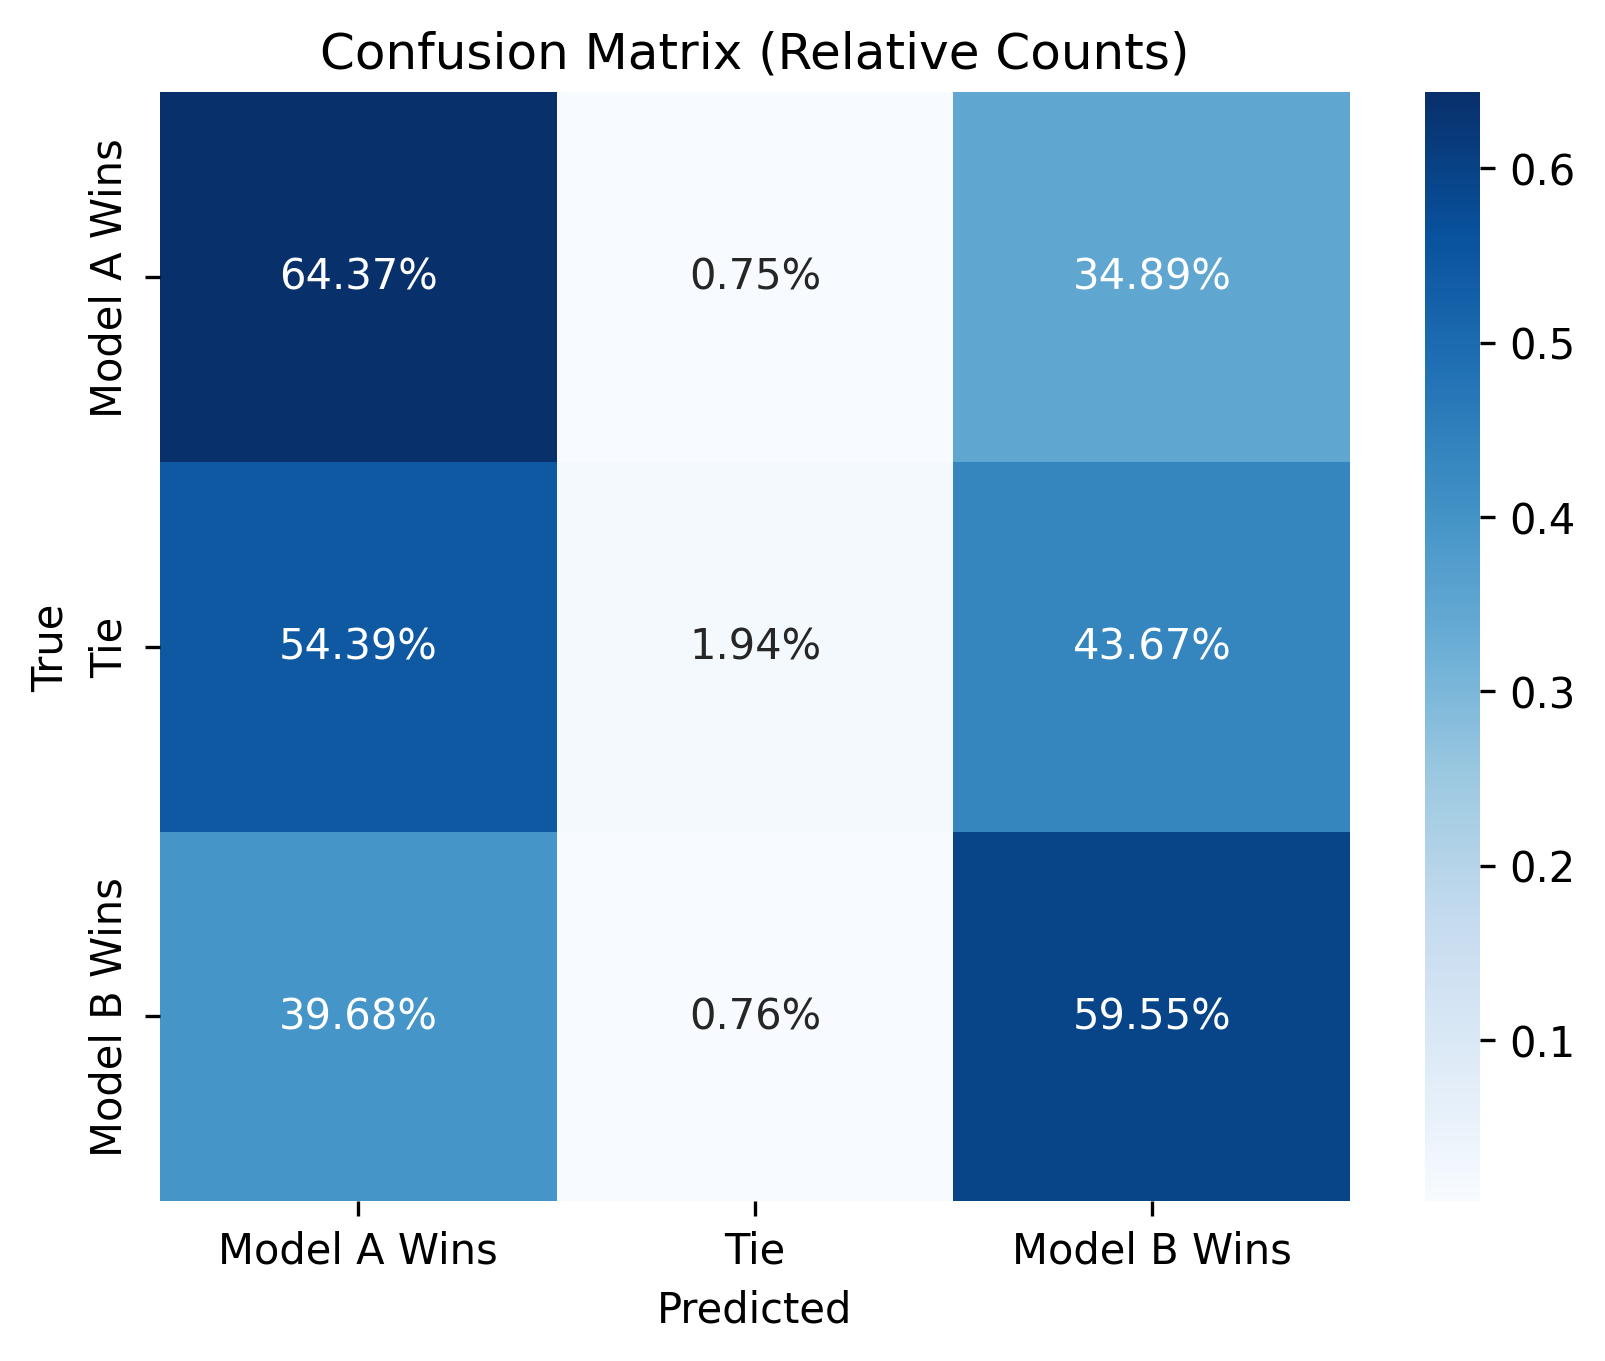
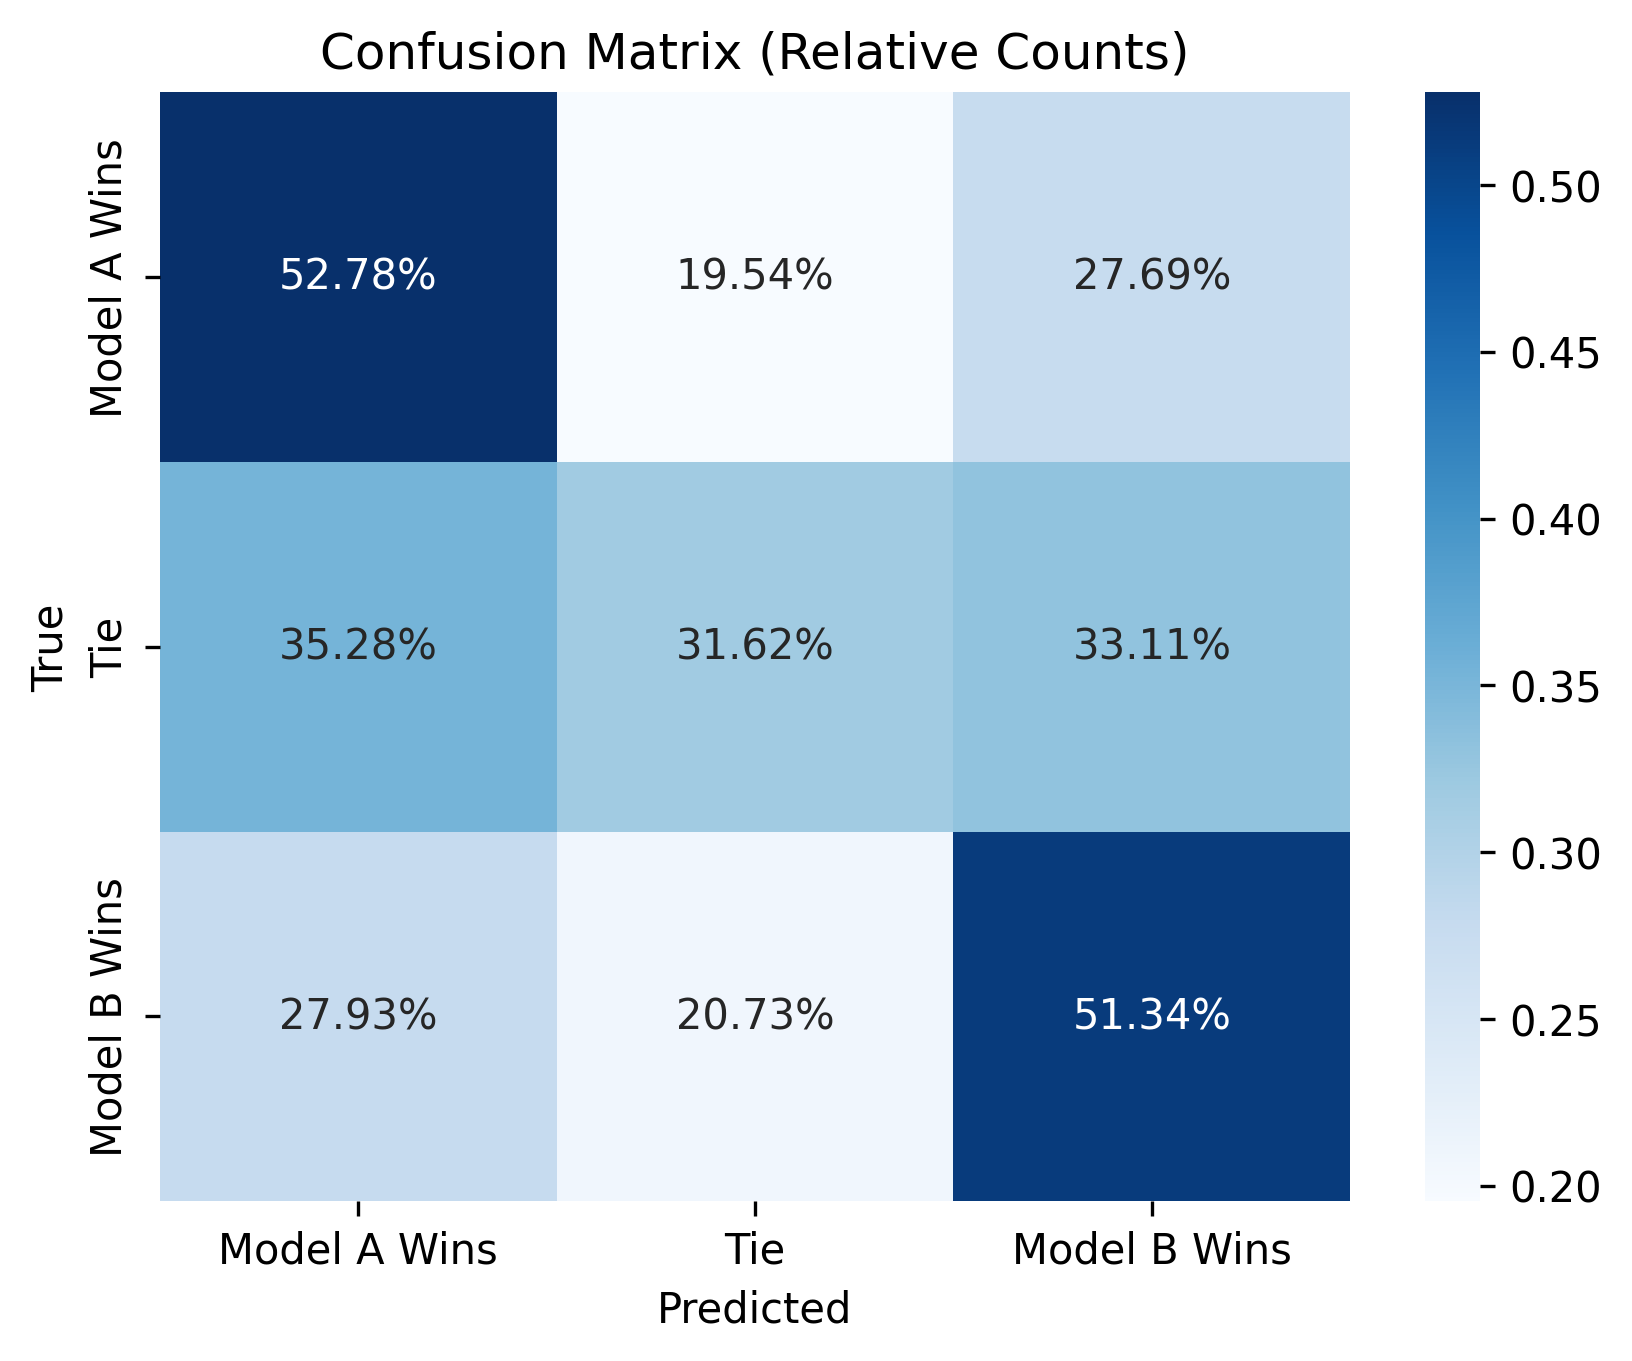
added more basic textual features

diff --git a/main.py b/main.py
@@ -1,15 +1,13 @@
 import pandas as pd
 import zipfile
+import re
 from sklearn.model_selection import train_test_split
 from sklearn.linear_model import LogisticRegression
 from sklearn.metrics import log_loss, confusion_matrix
 import numpy as np
 import seaborn as sns
 import matplotlib.pyplot as plt
-
-## TODO:
-# add a ton of features
-# unbias dataset
+from sklearn.preprocessing import StandardScaler
 
 def load_data(zip_file_path):
     try:
@@ -26,19 +24,149 @@ def load_data(zip_file_path):
         train_df = pd.read_csv('/kaggle/input/lmsys-chatbot-arena/train.csv')
         test_df = pd.read_csv('/kaggle/input/lmsys-chatbot-arena/test.csv')
         print("Data loaded from /input folder.")
-
     return train_df, test_df
 
 
+def count_syllables(word):
+    word = word.lower()
+    word = re.sub(r'[^a-z]', '', word)  # Remove non-alphabetic characters
+    vowels = "aeiouy"
+    syllable_count = 0
+    prev_char_was_vowel = False
+    if len(word) == 0:
+        return 0
+    for idx, char in enumerate(word):
+        if char in vowels:
+            if not prev_char_was_vowel:
+                syllable_count += 1
+                prev_char_was_vowel = True
+        else:
+            prev_char_was_vowel = False
+    if word.endswith("e") and not word.endswith("le") and syllable_count > 1:
+        syllable_count -= 1
+    return syllable_count
+
+
+def calculate_readability(row, col_prefix):
+    words = row[f'{col_prefix}_word_list']
+    sentences = max(row[f'{col_prefix}_sentence_count'], 1)
+    syllables = row[f'{col_prefix}_syllable_count']
+    words_count = max(len(words), 1)
+
+    # Flesch Reading Ease
+    fre = 206.835 - 1.015 * (words_count / sentences) - 84.6 * (syllables / words_count)
+
+    # Flesch-Kincaid Grade Level
+    fkgl = 0.39 * (words_count / sentences) + 11.8 * (syllables / words_count) - 15.59
+
+    return pd.Series({f'{col_prefix}_flesch_reading_ease': fre, f'{col_prefix}_flesch_kincaid_grade': fkgl})
+
+
 def add_basic_features(df):
-    df['response_a_length'] = df['response_a'].apply(len)
-    df['response_b_length'] = df['response_b'].apply(len)
-    df['length_difference'] = df['response_a_length'] - df['response_b_length']
+    for col in ['prompt', 'response_a', 'response_b']:
+        # Character Count
+        df[f'{col}_char_count'] = df[col].str.len()
+
+        # Word List and Word Count
+        df[f'{col}_word_list'] = df[col].str.findall(r'\b\w+\b')
+        df[f'{col}_word_count'] = df[f'{col}_word_list'].str.len()
+
+        # Sentence Count
+        df[f'{col}_sentence_count'] = df[col].str.count(r'[.!?]+')
+        df[f'{col}_sentence_count'] = df[f'{col}_sentence_count'].replace(0, 1)  # Avoid division by zero
+
+        # Average Word Length
+        df[f'{col}_avg_word_length'] = df[f'{col}_char_count'] / df[f'{col}_word_count'].replace(0, np.nan)
+
+        # Average Sentence Length (in words)
+        df[f'{col}_avg_sentence_length'] = df[f'{col}_word_count'] / df[f'{col}_sentence_count']
+
+        # Punctuation Counts
+        df[f'{col}_exclamation_count'] = df[col].str.count('!')
+        df[f'{col}_question_count'] = df[col].str.count(r'\?')  # Use raw string
+        df[f'{col}_comma_count'] = df[col].str.count(',')
+        df[f'{col}_period_count'] = df[col].str.count(r'\.')   # Use raw string
+        df[f'{col}_semicolon_count'] = df[col].str.count(';')
+        df[f'{col}_colon_count'] = df[col].str.count(':')
+
+        # Personal Pronoun Counts
+        df[f'{col}_pronoun_I_count'] = df[col].str.count(r'\bI\b', flags=re.IGNORECASE)
+        df[f'{col}_pronoun_you_count'] = df[col].str.count(r'\byou\b', flags=re.IGNORECASE)
+        df[f'{col}_pronoun_we_count'] = df[col].str.count(r'\bwe\b', flags=re.IGNORECASE)
+
+        # Type-Token Ratio
+        df[f'{col}_type_token_ratio'] = df[f'{col}_word_list'].apply(lambda x: len(set(x)) / max(len(x), 1))
+
+        # Syllable Count
+        df[f'{col}_syllable_count'] = df[f'{col}_word_list'].apply(lambda words: sum(count_syllables(word) for word in words))
+
+        # Readability Scores
+        #readability_scores = df.apply(lambda row: calculate_readability(row, col), axis=1).reset_index(drop=True)
+        #df = pd.concat([df.reset_index(drop=True), readability_scores], axis=1)
+
+    # Ensure readability columns are present and check for missing columns
+    #for col in ['response_a_flesch_reading_ease', 'response_b_flesch_reading_ease',
+    #            'response_a_flesch_kincaid_grade', 'response_b_flesch_kincaid_grade']:
+    #    if col not in df.columns:
+    #        print(f"Warning: Column {col} not found in the DataFrame! Filling with NaN.")
+    #        df[col] = np.nan
+
+    # Replace inplace fillna with assignment to prevent SettingWithCopyWarning
+    #df['response_a_flesch_reading_ease'] = df['response_a_flesch_reading_ease'].fillna(np.nan)
+    #df['response_b_flesch_reading_ease'] = df['response_b_flesch_reading_ease'].fillna(np.nan)
+    #df['response_a_flesch_kincaid_grade'] = df['response_a_flesch_kincaid_grade'].fillna(np.nan)
+    #df['response_b_flesch_kincaid_grade'] = df['response_b_flesch_kincaid_grade'].fillna(np.nan)
+
+    # Check for consistent lengths before calculating differences
+    #if len(df['response_a_flesch_reading_ease']) == len(df['response_b_flesch_reading_ease']):
+    #    df['flesch_reading_ease_difference'] = df['response_a_flesch_reading_ease'] - df['response_b_flesch_reading_ease']
+    #else:
+    #    print("Error: Readability columns have different lengths!")
+
+    #if len(df['response_a_flesch_kincaid_grade']) == len(df['response_b_flesch_kincaid_grade']):
+    #    df['flesch_kincaid_grade_difference'] = df['response_a_flesch_kincaid_grade'] - df['response_b_flesch_kincaid_grade']
+    #else:
+    #    print("Error: Readability grade columns have different lengths!")
+
+    # Differences between responses (Model A - Model B)
+    df['char_count_difference'] = df['response_a_char_count'] - df['response_b_char_count']
+    df['word_count_difference'] = df['response_a_word_count'] - df['response_b_word_count']
+    df['sentence_count_difference'] = df['response_a_sentence_count'] - df['response_b_sentence_count']
+    df['avg_word_length_difference'] = df['response_a_avg_word_length'] - df['response_b_avg_word_length']
+    df['avg_sentence_length_difference'] = df['response_a_avg_sentence_length'] - df['response_b_avg_sentence_length']
+    df['exclamation_count_difference'] = df['response_a_exclamation_count'] - df['response_b_exclamation_count']
+    df['question_count_difference'] = df['response_a_question_count'] - df['response_b_question_count']
+    df['pronoun_I_count_difference'] = df['response_a_pronoun_I_count'] - df['response_b_pronoun_I_count']
+    df['pronoun_you_count_difference'] = df['response_a_pronoun_you_count'] - df['response_b_pronoun_you_count']
+    df['type_token_ratio_difference'] = df['response_a_type_token_ratio'] - df['response_b_type_token_ratio']
+    df['syllable_count_difference'] = df['response_a_syllable_count'] - df['response_b_syllable_count']
+
+    # Ratios involving prompt and responses
+    df['response_a_char_count_to_prompt_char_count_ratio'] = df['response_a_char_count'] / df['prompt_char_count'].replace(0, np.nan)
+    df['response_b_char_count_to_prompt_char_count_ratio'] = df['response_b_char_count'] / df['prompt_char_count'].replace(0, np.nan)
+
+    # Ratios between responses (Model A to Model B)
+    df['response_a_char_count_to_response_b_char_count_ratio'] = df['response_a_char_count'] / df['response_b_char_count'].replace(0, np.nan)
+    df['response_a_word_count_to_response_b_word_count_ratio'] = df['response_a_word_count'] / df['response_b_word_count'].replace(0, np.nan)
+    df['response_a_sentence_count_to_response_b_sentence_count_ratio'] = df['response_a_sentence_count'] / df['response_b_sentence_count'].replace(0, np.nan)
+
+    # Clean up temporary columns
+    df.drop(columns=[col for col in df.columns if '_word_list' in col], inplace=True)
+
     return df
 
 
 def prepare_data(train_df):
-    features = ['response_a_length', 'response_b_length', 'length_difference']
+    # Select features
+    feature_cols = [col for col in train_df.columns if any(keyword in col for keyword in [
+        '_char_count', '_word_count', '_sentence_count',
+        '_avg_word_length', '_avg_sentence_length',
+        '_exclamation_count', '_question_count', '_comma_count', '_period_count',
+        '_semicolon_count', '_colon_count', '_pronoun_I_count', '_pronoun_you_count',
+        '_pronoun_we_count', '_type_token_ratio', '_syllable_count',
+        '_flesch_reading_ease', '_flesch_kincaid_grade',
+        '_difference', '_ratio'
+    ])]
 
     # Multi-class target: 0 = Model A wins, 1 = Model B wins, 2 = Tie
     def get_target(row):
@@ -51,23 +179,31 @@ def prepare_data(train_df):
 
     train_df['target'] = train_df.apply(get_target, axis=1)
 
-    X = train_df[features]
+    X = train_df[feature_cols]
     y = train_df['target']
 
-    X_train, X_val, y_train, y_val = train_test_split(X, y, test_size=0.2, random_state=42, stratify=y)
+    # Handle any NaN values
+    X = X.fillna(0)
 
-    return X_train, X_val, y_train, y_val
+    # Scale the features
+    scaler = StandardScaler()
+    X_scaled = scaler.fit_transform(X)
+
+    X_train, X_val, y_train, y_val = train_test_split(
+        X_scaled, y, test_size=0.2, random_state=42, stratify=y)
+
+    return X_train, X_val, y_train, y_val, scaler
 
 
 def train_model(X_train, y_train):
-    # Use LogisticRegression with multi-class support (using softmax under the hood)
-    model = LogisticRegression(solver='lbfgs', max_iter=1000)
+    # Use LogisticRegression with multi-class support
+    model = LogisticRegression(solver='lbfgs', max_iter=2000)
     model.fit(X_train, y_train)
     return model
 
 
 def evaluate_model(model, X_val, y_val):
-    # Predict probabilities for each class for the validation set
+    # Predict probabilities for the validation set
     y_val_pred_proba = model.predict_proba(X_val)
 
     # Compute the multi-class log loss
@@ -83,10 +219,11 @@ def evaluate_model(model, X_val, y_val):
 
 
 def plot_confusion_matrix(cm, filename='confusion_matrix.png'):
-    # Rearrange the confusion matrix to have "tie" in the middle
+    # Rearrange the confusion matrix to have "Tie" in the middle
     # Original order: [Model A Wins, Model B Wins, Tie]
     # New order: [Model A Wins, Tie, Model B Wins]
-    reordered_cm = cm[[0, 2, 1]][:, [0, 2, 1]]  # Reorder rows and columns
+    reordered_indices = [0, 2, 1]
+    reordered_cm = cm[reordered_indices][:, reordered_indices]
 
     # Normalize the confusion matrix by dividing each row by the sum of that row
     cm_relative = reordered_cm.astype('float') / reordered_cm.sum(axis=1)[:, np.newaxis]
@@ -107,16 +244,29 @@ def plot_confusion_matrix(cm, filename='confusion_matrix.png'):
     plt.clf()
 
 
-def make_predictions(model, test_df):
-    # Add the same features to the test set
+def make_predictions(model, test_df, scaler):
+    # Add features to the test set
     test_df = add_basic_features(test_df)
 
-    # Extract features for prediction
-    features = ['response_a_length', 'response_b_length', 'length_difference']
-    X_test = test_df[features]
+    # Select the same features used for training
+    feature_cols = [col for col in test_df.columns if any(keyword in col for keyword in [
+        '_char_count', '_word_count', '_sentence_count',
+        '_avg_word_length', '_avg_sentence_length',
+        '_exclamation_count', '_question_count', '_comma_count', '_period_count',
+        '_semicolon_count', '_colon_count', '_pronoun_I_count', '_pronoun_you_count',
+        '_pronoun_we_count', '_type_token_ratio', '_syllable_count',
+        '_flesch_reading_ease', '_flesch_kincaid_grade',
+        '_difference', '_ratio'
+    ])]
+
+    # Handle any NaN values
+    X_test = test_df[feature_cols].fillna(0)
+
+    # Scale the test data using the same scaler
+    X_test_scaled = scaler.transform(X_test)
 
     # Predict probabilities for the test set
-    y_test_pred_proba = model.predict_proba(X_test)
+    y_test_pred_proba = model.predict_proba(X_test_scaled)
 
     # Create a submission dataframe
     submission_df = test_df[['id']].copy()
@@ -124,7 +274,6 @@ def make_predictions(model, test_df):
     submission_df['winner_model_b'] = y_test_pred_proba[:, 1]  # Probability of Model B winning
     submission_df['winner_model_tie'] = y_test_pred_proba[:, 2]  # Probability of a tie
 
-    print(submission_df.head())
     return submission_df
 
 
@@ -137,12 +286,12 @@ def main():
     # Load dataset
     train_df, test_df = load_data('data/lmsys-chatbot-arena.zip')
 
-    # Add basic features like response length
+    # Add features
     train_df = add_basic_features(train_df)
     test_df = add_basic_features(test_df)
 
     # Prepare data for training
-    X_train, X_val, y_train, y_val = prepare_data(train_df)
+    X_train, X_val, y_train, y_val, scaler = prepare_data(train_df)
 
     # Train model
     model = train_model(X_train, y_train)
@@ -150,8 +299,8 @@ def main():
     # Evaluate model
     evaluate_model(model, X_val, y_val)
 
-    # Make predictions on the test set
-    submission = make_predictions(model, test_df)
+    # Prepare test data
+    submission = make_predictions(model, test_df, scaler)
 
     # Create and save the submission file
     create_submission_file(submission)
